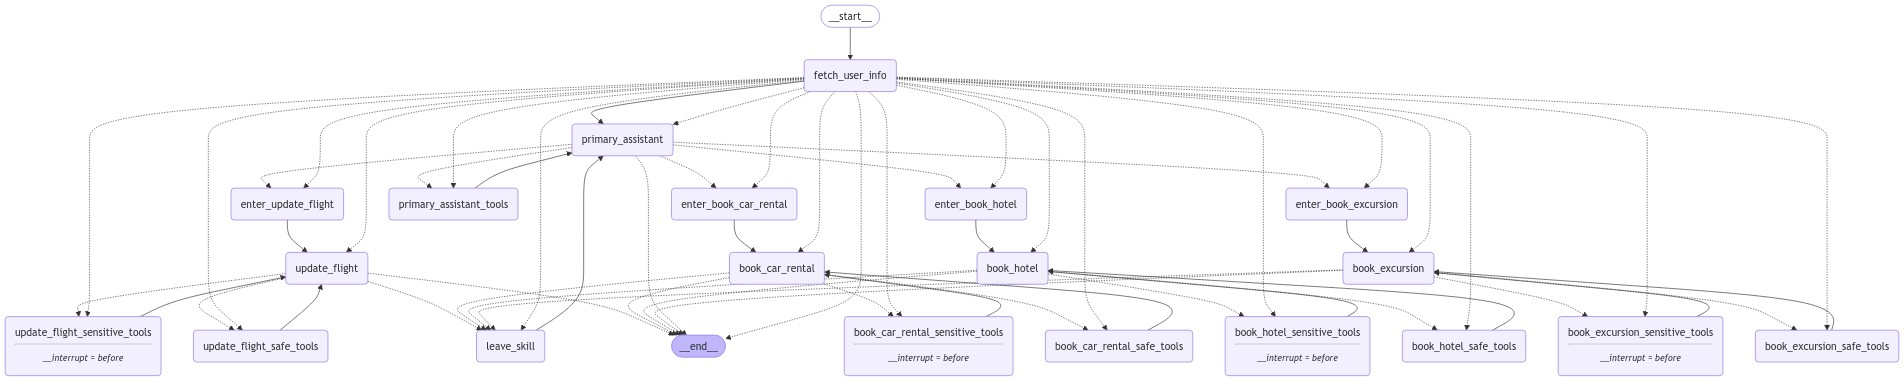
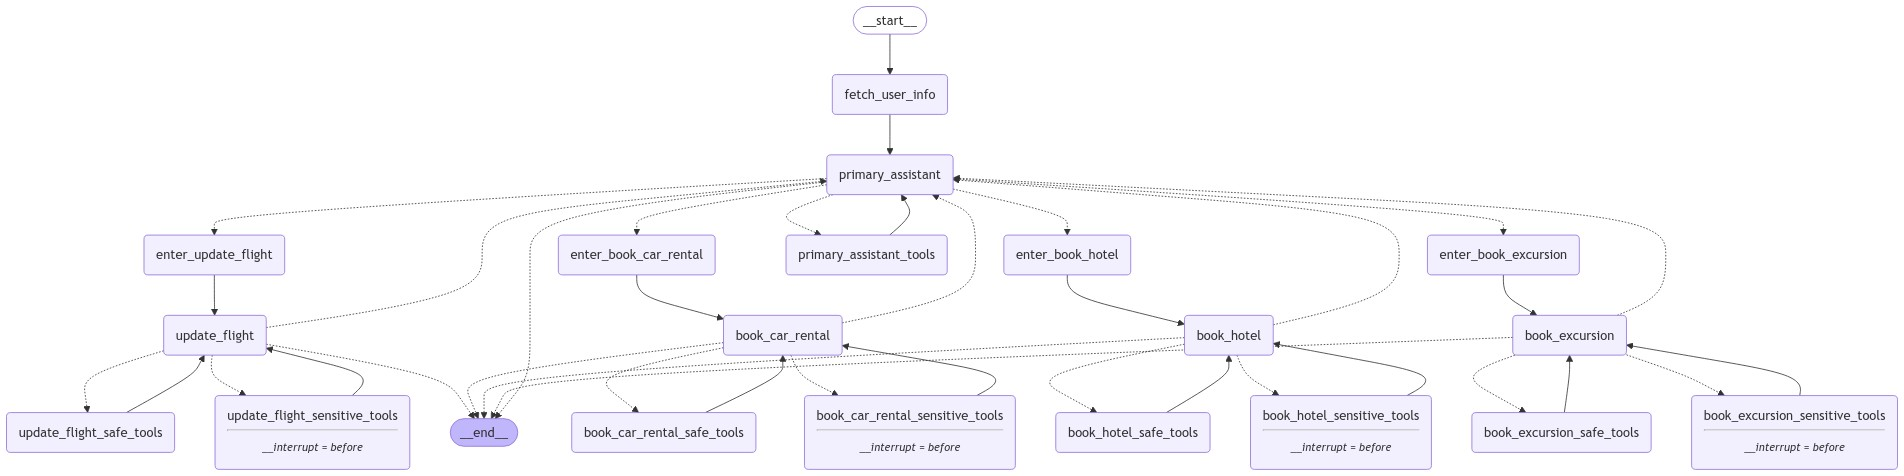
chore: restrict retrieval chunks limits

diff --git a/vectorizer/app/vectordb/vectordb.py b/vectorizer/app/vectordb/vectordb.py
@@ -189,7 +189,7 @@ class VectorDB:
     def create_embeddings(self):
         asyncio.run(self.create_embeddings_async())
 
-    def search(self, query, limit=5, with_payload=True):
+    def search(self, query, limit=2, with_payload=True):
         query_vector = generate_embedding(query)
         search_result = self.client.search(
             collection_name=self.collection_name,

diff --git a/customer_support_chat/app/services/tools/excursions.py b/customer_support_chat/app/services/tools/excursions.py
@@ -11,7 +11,7 @@ excursions_vectordb = VectorDB(table_name="trip_recommendations", collection_nam
 @tool
 def search_trip_recommendations(
     query: str,
-    limit: int = 10,
+    limit: int = 2,
 ) -> List[Dict]:
     """Search for trip recommendations based on a natural language query."""
     search_results = excursions_vectordb.search(query, limit=limit)

diff --git a/customer_support_chat/app/services/tools/cars.py b/customer_support_chat/app/services/tools/cars.py
@@ -13,7 +13,7 @@ cars_vectordb = VectorDB(table_name="car_rentals", collection_name="car_rentals_
 @tool
 def search_car_rentals(
     query: str,
-    limit: int = 10,
+    limit: int = 2,
 ) -> List[Dict]:
     """Search for car rentals based on a natural language query."""
     search_results = cars_vectordb.search(query, limit=limit)

diff --git a/customer_support_chat/app/services/tools/hotels.py b/customer_support_chat/app/services/tools/hotels.py
@@ -12,7 +12,7 @@ hotels_vectordb = VectorDB(table_name="hotels", collection_name="hotels_collecti
 @tool
 def search_hotels(
     query: str,
-    limit: int = 10,
+    limit: int = 2,
 ) -> List[Dict]:
     """Search for hotels based on a natural language query."""
     search_results = hotels_vectordb.search(query, limit=limit)

diff --git a/customer_support_chat/app/services/tools/flights.py b/customer_support_chat/app/services/tools/flights.py
@@ -80,7 +80,7 @@ def fetch_user_flight_information(*, config: RunnableConfig) -> List[Dict]:
 @tool
 def search_flights(
     query: str,
-    limit: int = 20,
+    limit: int = 2,
 ) -> List[Dict]:
     """Search for flights based on a natural language query."""
     search_results = flights_vectordb.search(query, limit=limit)

diff --git a/customer_support_chat/app/services/tools/lookup.py b/customer_support_chat/app/services/tools/lookup.py
@@ -12,7 +12,7 @@ faq_vectordb = VectorDB(table_name="faq", collection_name="faq_collection")
 @tool
 def search_faq(
     query: str,
-    limit: int = 5,
+    limit: int = 2,
 ) -> List[Dict]:
     """Search for FAQ entries based on a natural language query."""
     search_results = faq_vectordb.search(query, limit=limit)
